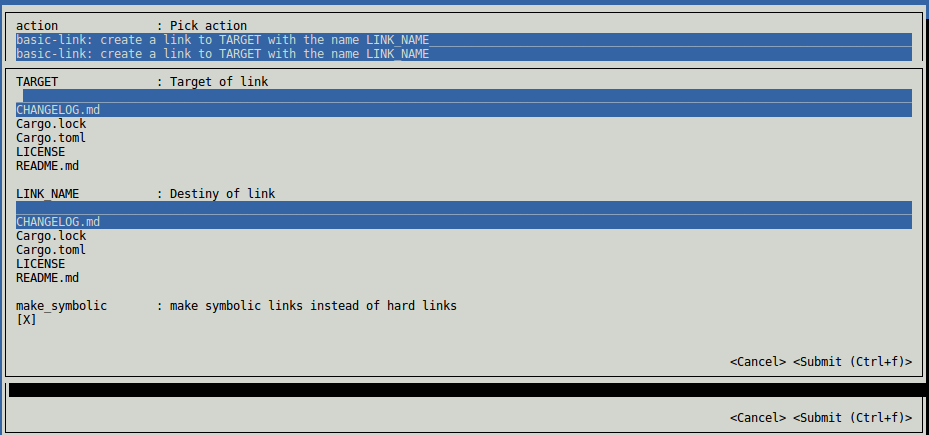
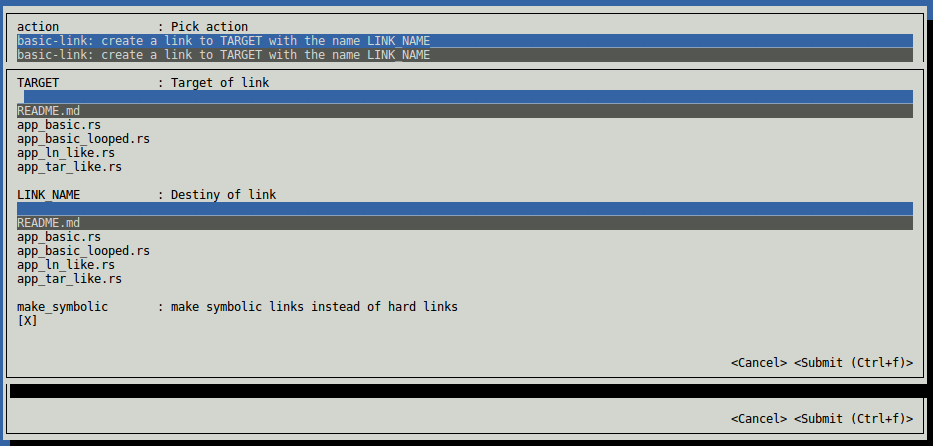
Set theme's color: highlight_inactive = "light black"
Mainly used by Autocomplete's select.

Changed region(s): [[0.0, 0.0, 0.9989, 1.0], [0.1561, 0.6575, 0.4995, 0.7172]]

diff --git a/src/lib.rs b/src/lib.rs
@@ -145,6 +145,11 @@ use std::ffi::OsString;
 use std::rc::Rc;
 use validators::OneOf;
 
+const DEFAULT_THEME: &'static str = "
+[colors]
+    highlight_inactive = \"light black\"
+";
+
 struct Action<'action> {
     name: &'action str,
     help: &'action str,
@@ -165,6 +170,7 @@ pub struct Fui<'attrs, 'action> {
     version: &'attrs str,
     about: &'attrs str,
     author: &'attrs str,
+    theme: &'attrs str,
 }
 impl<'attrs, 'action> Fui<'attrs, 'action> {
     /// Creates a new `Fui` with empty actions
@@ -175,6 +181,7 @@ impl<'attrs, 'action> Fui<'attrs, 'action> {
             version: "",
             about: "",
             author: "",
+            theme: &DEFAULT_THEME,
         }
     }
     /// Defines action by providing `name`, `help`, `form`, `hdlr`
@@ -313,6 +320,7 @@ impl<'attrs, 'action> Fui<'attrs, 'action> {
 
     fn input_from_tui(&mut self) -> Option<(String, Value)> {
         let mut c = cursive::Cursive::new();
+        c.load_theme(self.theme);
 
         let cmd = self.run_tui_cmd_picker(&mut c);
         let selection = match cmd.borrow().clone() {
@@ -361,6 +369,7 @@ impl<'attrs, 'action> Fui<'attrs, 'action> {
     ///
     /// [clap::App::version]: ../clap/struct.App.html#method.version
     pub fn version(mut self, version: &'attrs str) -> Self {
+        //TODO:::
         self.version = version.into();
         self
     }
@@ -382,6 +391,41 @@ impl<'attrs, 'action> Fui<'attrs, 'action> {
     /// [clap::App::author]: ../clap/struct.App.html#method.author
     pub fn author(mut self, author: &'attrs str) -> Self {
         self.author = author.into();
+        self
+    }
+
+    /// Sets `theme` for `Fui`.
+    ///
+    /// For details see [Cursive's themes]
+    ///
+    /// # Example:
+    ///
+    /// ```
+    /// use fui::Fui;
+    /// use fui::form::FormView;
+    /// use fui::fields::Text;
+    ///
+    /// let my_theme = "
+    /// shadow = false
+    /// borders = \"simple\"
+    /// [colors]
+    ///     background = \"yellow\"
+    /// ";
+    ///
+    /// let app = Fui::new()
+    ///     .action(
+    ///         "action1",
+    ///         "desc",
+    ///         FormView::new().field(Text::new("action1-data")),
+    ///         |v| { println!("{:?}", v); }
+    ///     )
+    ///     .theme(my_theme);
+    /// ```
+    ///
+    ///
+    /// [Cursive's themes]: ../cursive/theme/index.html#themes
+    pub fn theme(mut self, theme: &'attrs str) -> Self {
+        self.theme = theme;
         self
     }
 }

diff --git a/CHANGELOG.md b/CHANGELOG.md
@@ -1,5 +1,9 @@
 # Changelog
 
+## Next
+
+* `Fui` theme is now configurable (through `Fui::theme` setter)
+
 ## 0.8.0
 
 * `Fui` takes optionally 4 attributes: name, version, description, authors
